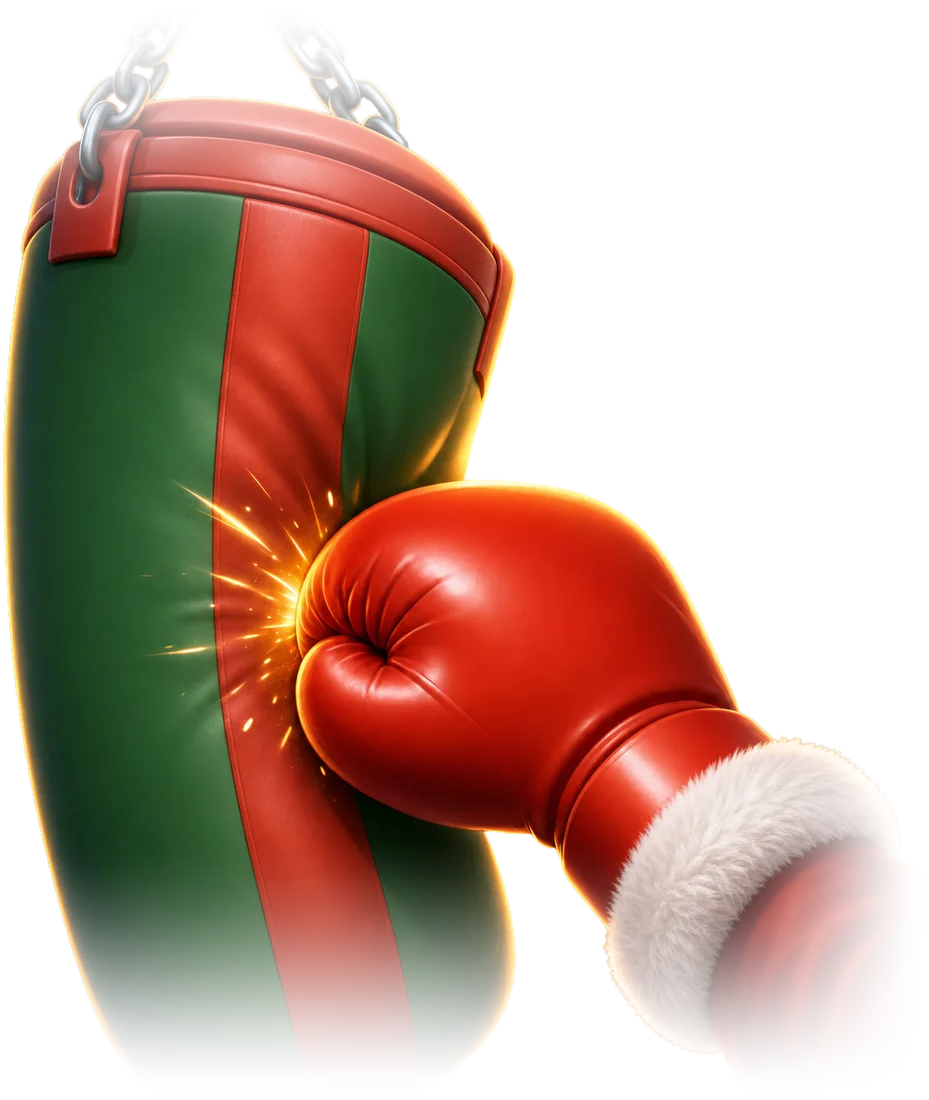
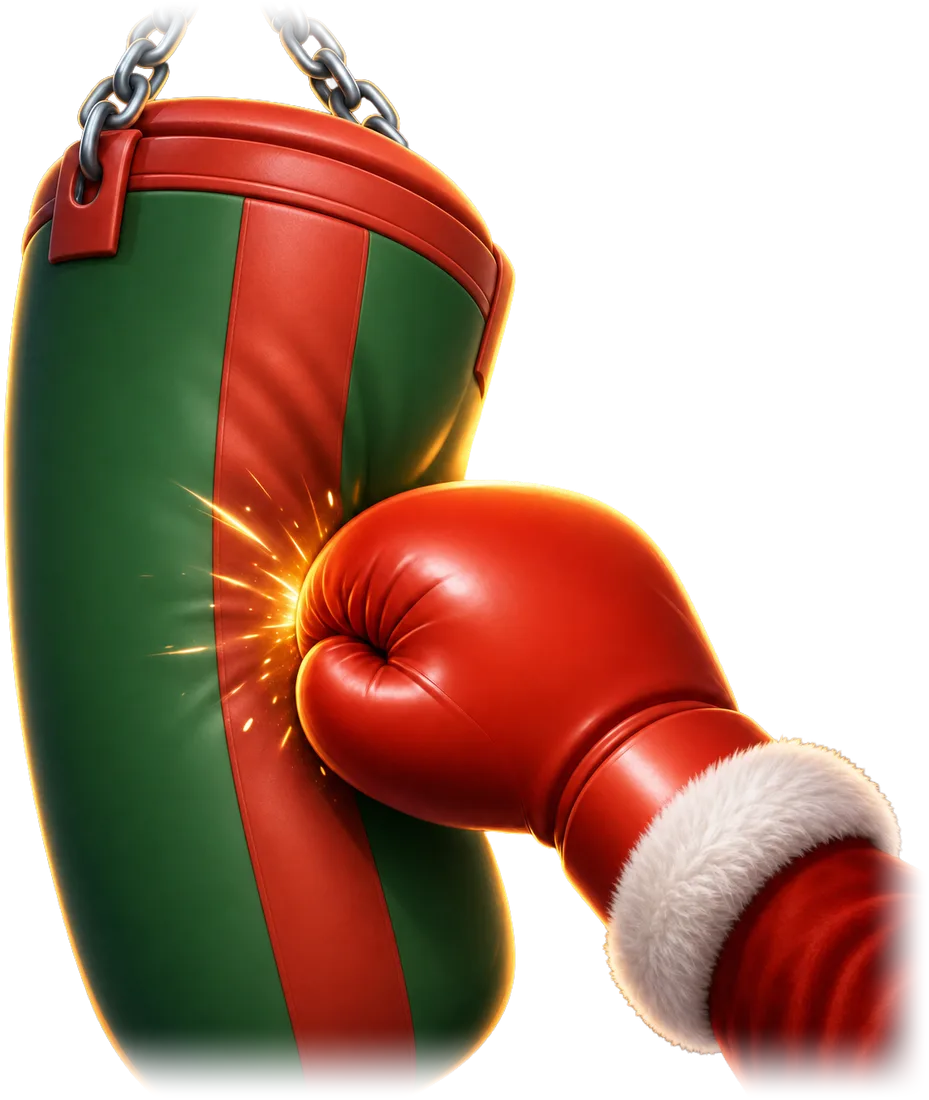
fix(site): swipe the stage, crisper seasonal Punch, mobile control fixes
Stage: on touch screens the hero art is swipeable — it follows the
finger (--drag, half the travel), a flick past 48px steps to the
next/previous game in the current season and the new one lands from
that side; touch-action: pan-y leaves vertical scrolling to the
browser, and a cancelled gesture resets. A swipe stops the tour.

Seasonal Punch heroes: cut on three sides (chains, sleeve, the bag's
foot), and the importer's 24% edge ramp on all three washed the whole
subject out. FADE_RAMP gives punch-christmas and punch-halloween a 7%
ramp, so only the cut line itself softens.

Phones: the tour button wears the season switch's shape (same 2.75rem
height, radius, border and fill); season tabs size to their content
instead of equal thirds, which let "Halloween" run into the Christmas
tab at 390px. Verified no tab overflows from 360 to 767px.

Game page: the seasonal launch menu was clipped by the hero's
overflow-hidden and sat under "How it plays". The hero now clips only
its background layer and the x axis (overflow-x: clip) and stacks at
z-10, so the menu hangs over the next section.

diff --git a/app/components/Stage.jsx b/app/components/Stage.jsx
@@ -209,6 +209,35 @@ export default function Stage({ initialSlug }) {
 
   const show = (i, via) => select(i, season, via);
 
+  // Swiping the hero on a touch screen steps through the games. The art
+  // follows the finger (--drag) and the next game lands from the side it was
+  // flicked toward. touch-action: pan-y leaves vertical scrolling to the
+  // browser, which cancels the gesture when it takes over.
+  const swipe = useRef(null);
+  const heroRef = useRef(null);
+  const drag = (px) => heroRef.current?.style.setProperty("--drag", `${px}px`);
+  const swipeHandlers = {
+    onPointerDown: (e) => {
+      if (e.pointerType === "mouse") return;
+      swipe.current = { x: e.clientX, dx: 0 };
+    },
+    onPointerMove: (e) => {
+      if (!swipe.current) return;
+      swipe.current.dx = e.clientX - swipe.current.x;
+      drag(swipe.current.dx * 0.5);
+    },
+    onPointerUp: () => {
+      const dx = swipe.current?.dx ?? 0;
+      swipe.current = null;
+      drag(0);
+      if (Math.abs(dx) > 48) step(dx < 0 ? 1 : -1, "swipe");
+    },
+    onPointerCancel: () => {
+      swipe.current = null;
+      drag(0);
+    },
+  };
+
 
   const figures = [
     ["RTP", game.rtp],
@@ -335,7 +364,11 @@ export default function Stage({ initialSlug }) {
           </div>
         </div>
 
-        <div className="b4w-parallax-hero relative order-1 min-h-[150px] lg:order-2 lg:h-full lg:min-h-[420px]">
+        <div
+          ref={heroRef}
+          {...swipeHandlers}
+          className="b4w-parallax-hero relative order-1 min-h-[150px] touch-pan-y select-none lg:order-2 lg:h-full lg:min-h-[420px]"
+        >
           <div className="b4w-float absolute inset-0">
             <Image
               key={`art-${look}`}
@@ -363,7 +396,7 @@ export default function Stage({ initialSlug }) {
 
           {/* Dress the lobby for a season. */}
           {SEASON_TABS.length > 0 && (
-            <div role="group" aria-label="Show the lobby in a season" className="flex min-w-0 flex-1 items-center gap-1 rounded-lg border border-white/15 bg-black/40 p-1 md:flex-none">
+            <div role="group" aria-label="Show the lobby in a season" className="flex h-11 min-w-0 flex-1 items-stretch gap-1 rounded-lg border border-white/15 bg-black/40 p-1 md:h-auto md:flex-none">
               {[{ id: null, count: liveCatalogue.length }, ...SEASON_TABS].map(({ id, count }) => {
                 const on = season === id;
                 const meta = id ? SEASONS[id] : null;
@@ -373,7 +406,7 @@ export default function Stage({ initialSlug }) {
                     type="button"
                     onClick={() => pickSeason(id)}
                     aria-pressed={on}
-                    className={`flex min-w-0 flex-1 items-center justify-center gap-1.5 rounded-md px-1.5 py-2 font-Text text-[12px] font-semibold transition-colors sm:text-[13px] md:flex-none md:gap-2 md:px-3 md:text-[14px] ${
+                    className={`flex min-w-0 flex-auto items-center justify-center gap-1.5 rounded-md px-1.5 py-2 font-Text text-[12px] font-semibold transition-colors sm:text-[13px] md:flex-none md:gap-2 md:px-3 md:text-[14px] ${
                       on ? "bg-white text-bg" : "text-ink/75 hover:bg-white/10 hover:text-ink"
                     }`}
                   >
@@ -401,7 +434,9 @@ export default function Stage({ initialSlug }) {
               aria-pressed={touring}
               aria-label={touring ? "Stop the lobby tour" : "Tour the lobby"}
               title={touring ? "Stop the lobby tour" : "Tour the lobby"}
-              className="b4w-btn b4w-btn--ghost b4w-btn--icon !border-white/25"
+              // On phones it sits beside the season switch, so it wears the
+              // switch's shape; on larger screens, the arrows'.
+              className="b4w-btn b4w-btn--ghost b4w-btn--icon !border-white/25 max-md:!h-11 max-md:!w-11 max-md:!rounded-lg max-md:!border-white/15 max-md:!bg-black/40"
             >
               {touring ? <Pause className="h-4 w-4" /> : <Play className="h-4 w-4 translate-x-px" />}
             </button>

diff --git a/app/components/GameDetail.jsx b/app/components/GameDetail.jsx
@@ -50,16 +50,16 @@ export default function GameDetail({ game, content }) {
 
   return (
     <>
-      <section className="relative isolate overflow-hidden border-b border-line/60 bg-bg">
+      {/* Clipped sideways only, and stacked above the page below it: the
+          seasonal launch menu hangs out of the bottom of this band. The room
+          is clipped in its own layer instead. */}
+      <section className="relative z-10 overflow-x-clip border-b border-line/60 bg-bg">
         {art && (
-          <>
-            <Image src={art.scene} alt="" fill priority sizes="100vw" className="b4w-settle-scene -z-10 object-cover" />
-            <div
-              aria-hidden="true"
-              className="absolute inset-0 -z-10 bg-[linear-gradient(90deg,rgba(8,9,14,0.92)_0%,rgba(8,9,14,0.55)_45%,rgba(8,9,14,0.08)_80%)] max-lg:bg-[linear-gradient(180deg,rgba(8,9,14,0.45)_0%,rgba(8,9,14,0.85)_60%)]"
-            />
-            <div aria-hidden="true" className="absolute inset-x-0 -bottom-px -z-10 h-28 bg-gradient-to-t from-bg to-transparent" />
-          </>
+          <div aria-hidden="true" className="absolute inset-0 -z-10 overflow-hidden">
+            <Image src={art.scene} alt="" fill priority sizes="100vw" className="b4w-settle-scene object-cover" />
+            <div className="absolute inset-0 bg-[linear-gradient(90deg,rgba(8,9,14,0.92)_0%,rgba(8,9,14,0.55)_45%,rgba(8,9,14,0.08)_80%)] max-lg:bg-[linear-gradient(180deg,rgba(8,9,14,0.45)_0%,rgba(8,9,14,0.85)_60%)]" />
+            <div className="absolute inset-x-0 -bottom-px h-28 bg-gradient-to-t from-bg to-transparent" />
+          </div>
         )}
 
         <div className="mx-auto max-w-[1280px] px-5 pt-6 md:px-12 md:pt-10">

diff --git a/app/globals.css b/app/globals.css
@@ -938,7 +938,7 @@ select {
   translate: calc(var(--mx, 0) * -14px) calc(var(--my, 0) * -8px);
 }
 .b4w-parallax-hero {
-  translate: calc(var(--mx, 0) * 18px) calc(var(--my, 0) * 10px);
+  translate: calc(var(--mx, 0) * 18px + var(--drag, 0px)) calc(var(--my, 0) * 10px);
 }
 @keyframes b4w-fade {
   from {
